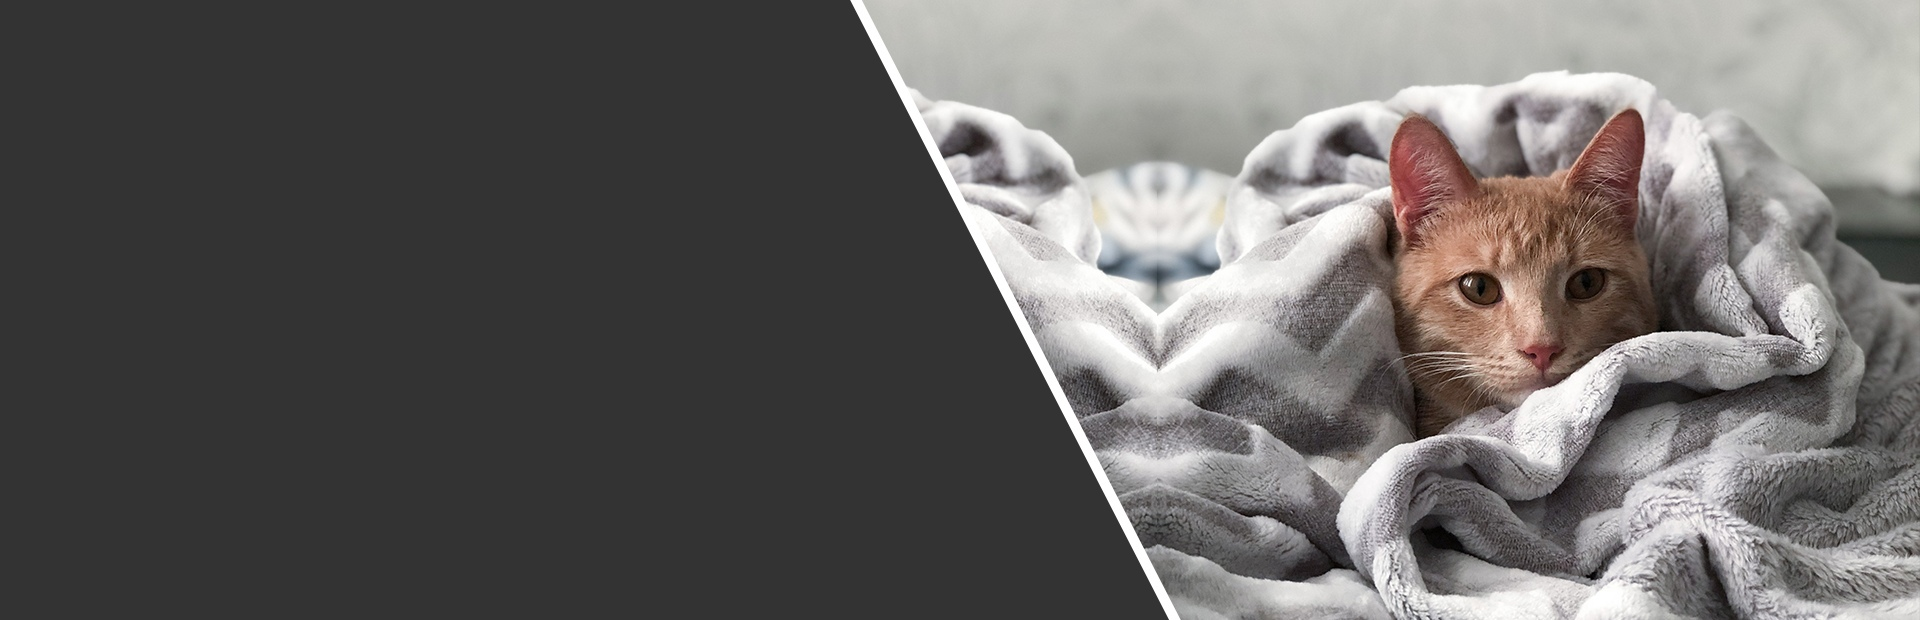
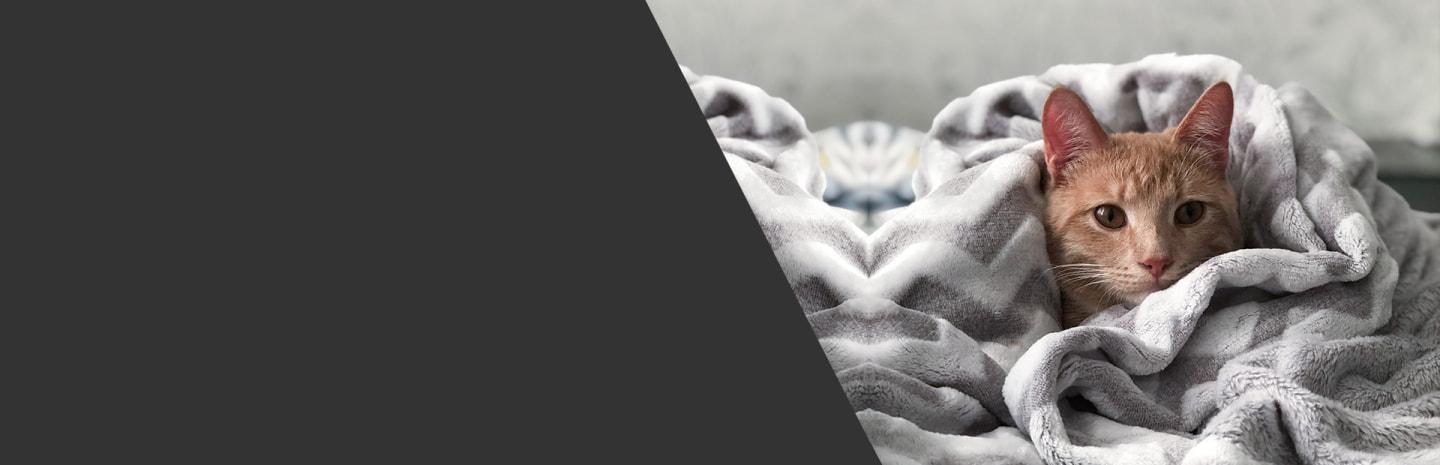
Обновляет зависимости, ссылки и картинку на главном экране

diff --git a/src/clients/site/sections/booking/BookingForm/Form/index.tsx b/src/clients/site/sections/booking/BookingForm/Form/index.tsx
@@ -158,7 +158,7 @@ export const Form: React.FC<FormProps> = ({ checkedRoomId, onSetOrderResult }) =
 
       <div className="booking-form__number-info">
         Подробнее о номерах{' '}
-        <a href={links.rooms} className="link popup-close" onClick={onClosePopup}>
+        <a href={links.rooms} target="_blank" rel="noreferrer" className="link popup-close" onClick={onClosePopup}>
           здесь
         </a>
       </div>
@@ -235,7 +235,12 @@ export const Form: React.FC<FormProps> = ({ checkedRoomId, onSetOrderResult }) =
         {!!prePrice && <div className="booking-form__cost-value">{prePrice} р</div>}
       </div>
 
-      <a href={links.howIsPayment} className="link link_theme_normal booking-form__cost-info" onClick={onClosePopup}>
+      <a
+        href={links.howIsPayment}
+        target="_blank"
+        rel="noreferrer"
+        className="link link_theme_normal booking-form__cost-info"
+        onClick={onClosePopup}>
         Как происходит оплата?
       </a>
 
@@ -243,11 +248,11 @@ export const Form: React.FC<FormProps> = ({ checkedRoomId, onSetOrderResult }) =
         <Checkbox name="agreements" onChange={onChange} />
         <span>
           Нажимая кнопку &quot;Забронировать&quot;, принимаю условия{' '}
-          <a href={links.privacyPolicy} className="link link_theme_normal">
+          <a href={links.privacyPolicy} target="_blank" rel="noreferrer" className="link link_theme_normal">
             Политики конфиденциальности
           </a>{' '}
           и даю своё согласие на{' '}
-          <a href={links.agreements} className="link link_theme_normal">
+          <a href={links.agreements} target="_blank" rel="noreferrer" className="link link_theme_normal">
             Обработку моих персональных данных
           </a>
         </span>

diff --git a/src/clients/site/sections/firstscreen/index.scss b/src/clients/site/sections/firstscreen/index.scss
@@ -10,7 +10,7 @@
   margin-top: 53px;
 
   @media ($tablet) {
-    height: 255px;
+    height: 260px;
     margin-top: 20px;
   }
 
@@ -43,26 +43,54 @@
   }
 }
 
-.firstscreen__image-mobile {
-  width: 100%;
+.firstscreen__image-paws {
   position: absolute;
   top: 0;
   left: 0;
+  z-index: 2;
+  width: 800px;
   height: 100%;
   object-fit: cover;
+  display: none;
 
-  @media ($tablet) {
-    display: none;
+  @media ($laptop-wide) {
+    display: block;
   }
 }
 
+
+.firstscreen__image-background-mobile {
+	width: 100%;
+	position: absolute;
+	top: 0;
+	left: 0;
+	height: 100%;
+	background-color: $BLACK;
+	overflow: hidden;
+
+	img {
+		width: 100%;
+		object-fit: cover;
+		height: 400px;
+		display: block;
+		position: absolute;
+		bottom: -50px;
+		clip-path: polygon(0 0, 100% 25%, 100% 100%, 0% 100%);
+	}
+
+	@media ($tablet) {
+		display: none;
+	}
+}
+
 .firstscreen__content-wrapper {
-  width: 320px;
+	padding-right: 10px;
+	padding-left: 10px;
   margin-left: auto;
   margin-right: auto;
 
   @media ($tablet) {
-    width: 780px;
+    width: 750px;
   }
 
   @media ($laptop) {
@@ -73,6 +101,7 @@
 .firstscreen__content {
   padding-top: 35px;
   position: relative;
+  z-index: 3;
 
   @media ($tablet) {
     @include column(22);

diff --git a/src/clients/site/sections/room-info/index.js b/src/clients/site/sections/room-info/index.js
@@ -1,5 +1,3 @@
-import $ from 'jquery';
-
 class RoomInfo {
   constructor() {
     this.initPhotoSliders();
@@ -9,6 +7,7 @@ class RoomInfo {
     const sliders = document.querySelectorAll('.room-info__slider') ?? [];
 
     sliders.forEach((slider) => {
+      // eslint-disable-next-line no-undef
       const $photoSlider = $(slider.querySelector('.room-info__slides'));
       const thumbs = slider.querySelectorAll('.room-info__thumb') ?? [];
 

diff --git a/webpack.config.js b/webpack.config.js
@@ -59,6 +59,11 @@ module.exports = {
         use: [
           {
             loader: 'file-loader',
+            options: {
+              name: '[name].[ext]',
+              outputPath: '/images',
+              useRelativePath: true,
+            },
           },
         ],
       },

diff --git a/src/clients/site/sections/header/index.scss b/src/clients/site/sections/header/index.scss
@@ -84,6 +84,7 @@
 
 .header__social {
   display: flex;
+	justify-content: flex-end;
   margin-top: 20px;
 
   li {
